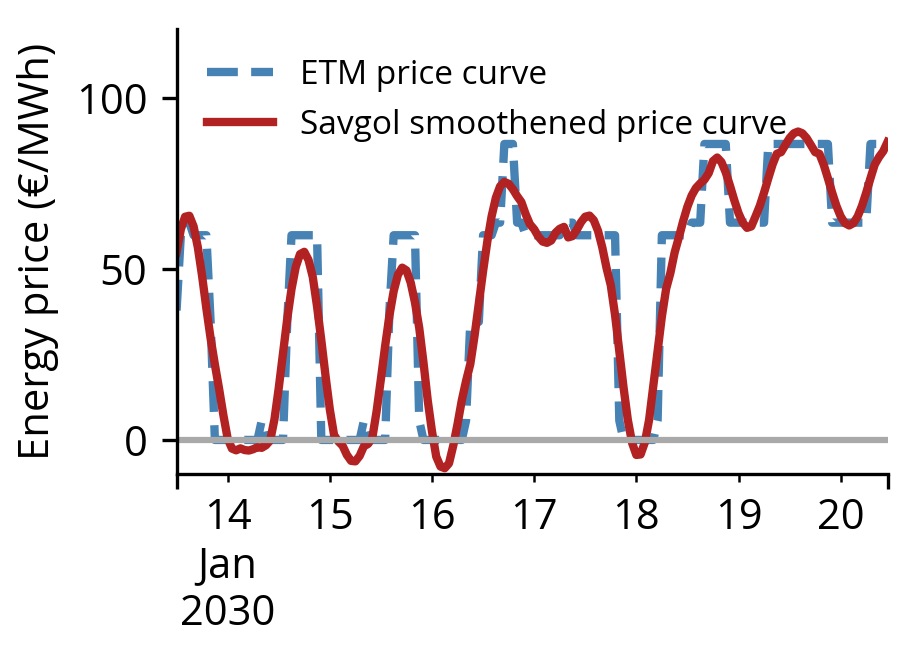
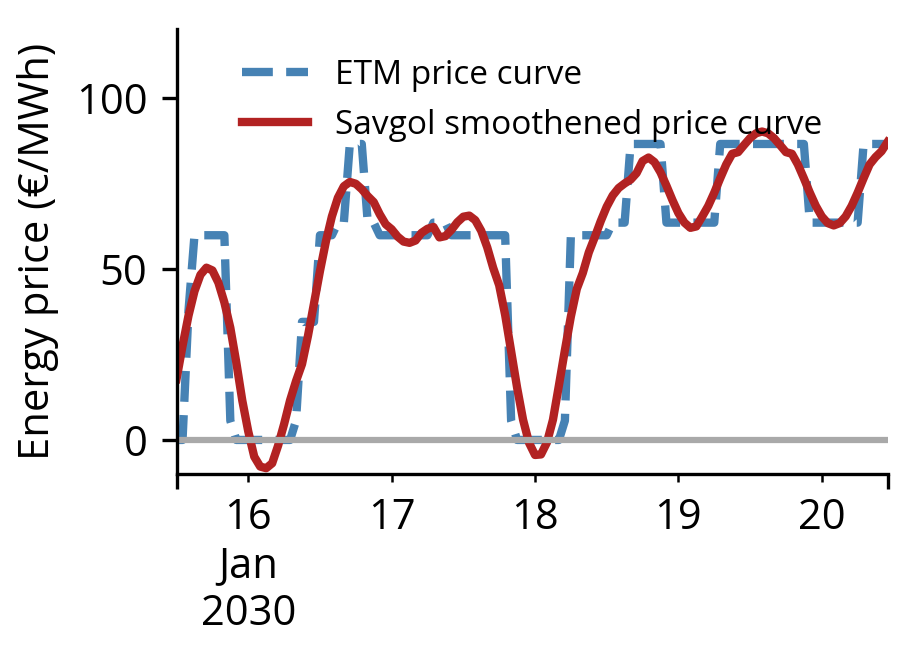
etm filter detail edit

diff --git a/thesis scripts/report figures/model_verification/ETM/kea_price_curve.py b/thesis scripts/report figures/model_verification/ETM/kea_price_curve.py
@@ -65,7 +65,6 @@ xtick = {
 }
 ax.set_xticks(list(xtick.keys()))
 ax.set_xticklabels(list(xtick.values()))
-ax.xaxis.ticklabels.set_visible(False)
 ax.set_xlim([0, duration*24-1])
 
 
@@ -79,8 +78,8 @@ default_matplotlib_save(fig, "etm_pricecurve_year.png")
 fig, ax = plt.subplots()
 fig, ax = default_matplotlib_style(fig, ax)
 fig.set_size_inches(3,2.2)
-start = 300
-duration = 7
+start = 348
+duration = 5
 subset = edf.iloc[start:start+duration*24,:]
 subset.plot(
     color=['steelblue', 'firebrick'],
@@ -92,7 +91,7 @@ subset.plot(
 plt.axhline(0, color='darkgrey')
 ax.set_ylim([-10,120])
 ax.set_ylabel("Energy price (€/MWh)")
-ax.legend(frameon=False)
+ax.legend(loc= 'upper center', frameon=False)
 
 default_matplotlib_save(fig, "etm_pricecurve_detail.png")
 
